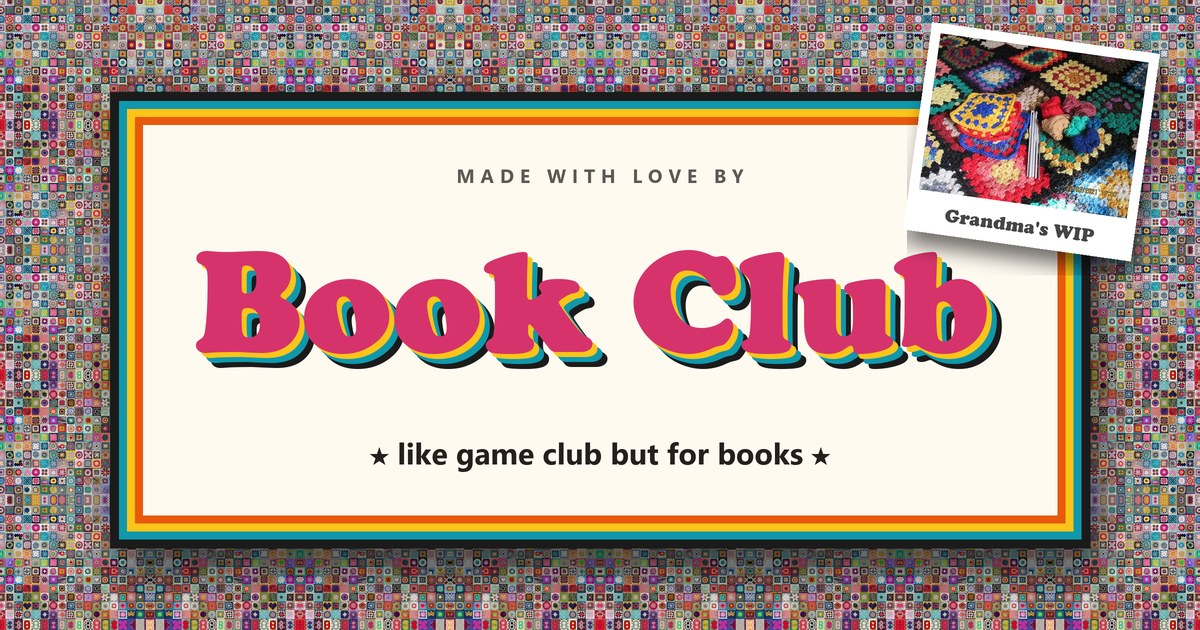
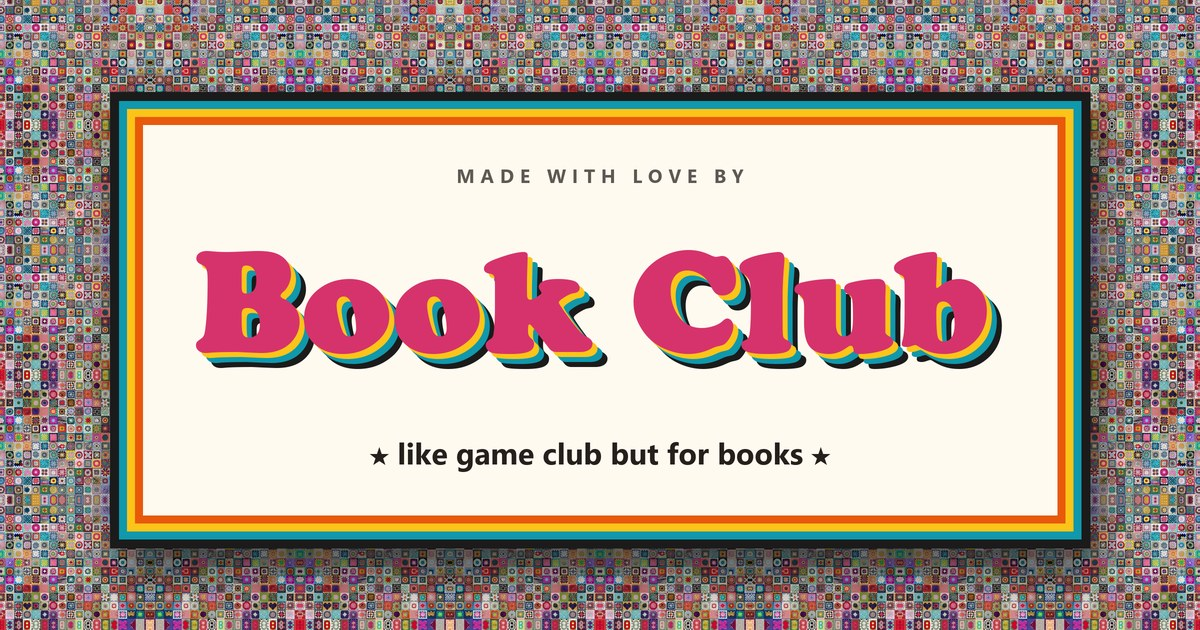
Take out the Grandma's WIP polaroid
Gone from the masthead and the link-preview image, and from the photo credits.

Changed region(s): [[0.74, 0.0302, 0.9867, 0.4524]]

diff --git a/css/style.css b/css/style.css
@@ -41,11 +41,6 @@ a{color:var(--accent)}
 
 /* ---------- masthead ---------- */
 .mast{text-align:center;padding:clamp(16px,3.4vw,30px) clamp(12px,4vw,34px) clamp(16px,3vw,26px)}
-.snap{position:absolute;right:-34px;top:-40px;z-index:3;margin:0;width:176px;background:#fff;padding:8px 8px 6px;transform:rotate(7deg);box-shadow:0 10px 18px rgba(0,0,0,.45)}
-.snap img{display:block;width:100%;height:auto}
-.snap figcaption{font:800 13px/1 var(--serif);text-align:center;margin-top:7px;color:#444}
-@media (max-width:900px){.snap{width:130px;right:-20px;top:-30px}}
-@media (max-width:760px){.snap{display:none}}
 .hello{margin:0;font:800 12px/1.2 var(--ui);letter-spacing:.3em;padding-left:.3em;text-transform:uppercase;color:color-mix(in srgb,var(--edge) 72%,var(--paper))}
 .logo{margin:6px 0 0;padding:0 .12em 12px 0;font:900 clamp(50px,10.5vw,124px)/1 var(--serif);letter-spacing:.005em;color:var(--accent);text-wrap:balance;overflow-wrap:anywhere;
   text-shadow:4px 4px 0 var(--r2),8px 8px 0 var(--r3),12px 12px 0 var(--edge)}

diff --git a/credits.html b/credits.html
@@ -30,7 +30,6 @@ CC0 and public domain.</p>
 <li><b>The good rug</b>: <a href="https://commons.wikimedia.org/wiki/File:%22Floral_and_Cloudband%22_Carpet_MET_wb-53.214c.jpeg">&quot;Floral and Cloudband&quot; Carpet MET wb-53.214c.jpeg</a> by unknown <span>(CC0)</span></li>
 <li><b>Button tin</b>: <a href="https://commons.wikimedia.org/wiki/File:Box_Full_of_Buttons_For_Sewing_(42958527870).jpg">Box Full of Buttons For Sewing (42958527870).jpg</a> by Dejan Krsmanovic <span>(CC BY 2.0)</span></li>
 <li><b>Cross-stitch</b>: <a href="https://commons.wikimedia.org/wiki/File:Cross_stitch.JPG">Cross stitch.JPG</a> by Dee.lite <span>(Public domain)</span></li>
-<li><b>Grandma&#x27;s WIP (the polaroid)</b>: <a href="https://commons.wikimedia.org/wiki/File:Crocheted_blanket.jpg">Crocheted blanket.jpg</a> by Sudzie <span>(CC BY-SA 4.0)</span></li>
 </ul>
 <p class="back"><a href="./">&larr; back to the club</a></p>
 </main></body></html>

diff --git a/index.html b/index.html
@@ -45,7 +45,6 @@ try {
 <body class="tab-shelf">
 <main class="page">
   <header class="panel mast">
-    <figure class="snap" aria-hidden="true"><img src="img/grandmas-wip.jpg" alt="" width="560" height="420"><figcaption>Grandma's WIP</figcaption></figure>
     <p class="hello">Made with love by</p>
     <h1 class="logo" id="club-name">Book Club</h1>
     <p class="tagline" id="tagline">★ like game club but for books ★</p>

diff --git a/scripts/make_share_images.py b/scripts/make_share_images.py
@@ -1,6 +1,6 @@
 """Make the link-preview image (og-image.jpg) and app icons in Book Club's granny-square look:
 the real granny-square afghan photo as wallpaper, a cream card crocheted round and round, the name in
-chunky '70s type with stacked yarn-colored shadows, and grandma's WIP polaroid (the site's default
+chunky '70s type with stacked yarn-colored shadows (the site's default
 look, see js/look.js). The icons are a granny square.
 Run: python scripts/make_wallpapers.py first, then python scripts/make_share_images.py
 (needs Pillow; uses Windows' Cooper Black + Segoe UI Bold)"""
@@ -62,19 +62,6 @@ def og():
     d.text((cx, 452 * K), tag, font=tf, fill=INK, anchor="mm")
     for x in (cx - tw / 2 - gap, cx + tw / 2 + gap):  # Segoe UI has no star, so they come from Segoe UI Symbol
         d.text((x, 454 * K), "\u2605", font=sf, fill=INK, anchor="mm")
-    # grandma's WIP polaroid, taped to the corner
-    ph = Image.open(IMG / "grandmas-wip.jpg").convert("RGBA")
-    pw = 210 * K
-    ph = ph.resize((pw, round(pw * ph.height / ph.width)), Image.LANCZOS)
-    pol = Image.new("RGBA", (pw + 20 * K, ph.height + 52 * K), (255, 255, 255, 255))
-    pol.paste(ph, (10 * K, 10 * K))
-    ImageDraw.Draw(pol).text((pol.width // 2, ph.height + 32 * K), "Grandma's WIP", font=ImageFont.truetype(COOPER, 19 * K), fill=(70, 70, 70), anchor="mm")
-    pol = pol.rotate(-8, resample=Image.BICUBIC, expand=True)
-    psh = Image.new("RGBA", pol.size, (0, 0, 0, 0))
-    psh.putalpha(pol.getchannel("A").point(lambda a: a * 0.55))
-    at = (box[2] - pol.width + 70 * K, box[1] - 70 * K)
-    out.alpha_composite(psh.filter(ImageFilter.GaussianBlur(9 * K)), (at[0] + 4 * K, at[1] + 14 * K))
-    out.alpha_composite(pol, at)
     out.convert("RGB").resize((1200, 630), Image.LANCZOS).save(IMG / "og-image.jpg", quality=88, optimize=True, progressive=True)
 
 

diff --git a/scripts/make_wallpapers.py b/scripts/make_wallpapers.py
@@ -27,8 +27,6 @@ for wid, name in WALLS.items():
     r, g, b = im.resize((1, 1), Image.LANCZOS).getpixel((0, 0))
     print(f"{wid:9} #{r:02x}{g:02x}{b:02x}  {im.size}  {(OUT / f'{wid}.jpg').stat().st_size // 1024} KB")
 
-# the polaroid in the masthead
-Image.open(SRC / "granny-hooks.jpg").convert("RGB").save(ROOT / "img" / "grandmas-wip.jpg", quality=84, optimize=True)
 
 # ---- credits.html: who took each photo (CC BY / CC BY-SA need this) ----
 import html, re
@@ -36,7 +34,7 @@ SOURCE = {  # what's on the site -> the Commons file it was made from (keys in m
     "Granny squares": "granny", "'70s afghan": "granny2", "Irish chain quilt": "quilt", "Doilies on velvet": "doilies",
     "Big red doily": "doily_red", "Candy dish": "candy", "Blue willow": "willow", "Rose china": "rosechina",
     "Rosebud stripe": "rosestripe", "Calico": "chintz", "Red toile": "toile2", "Chenille bedspread": "chenille",
-    "The good rug": "carpet", "Button tin": "buttons", "Cross-stitch": "xstitch2", "Grandma's WIP (the polaroid)": "granny3",
+    "The good rug": "carpet", "Button tin": "buttons", "Cross-stitch": "xstitch2",
 }
 md = (ROOT / "mockups" / "grandma" / "CREDITS.md").read_text(encoding="utf-8")
 src = {m[0]: m[1:] for m in re.findall(r"^- \*\*(\w+)\*\*: \[(.+?)\]\((.+?)\) by (.+) \((.+?)\)$", md, re.M)}

diff --git a/PLAN.md b/PLAN.md
@@ -52,7 +52,7 @@ their first Book Club sign-in (the palette and fonts are cozier than Game Club's
   Unknown names fall back to the defaults (rainbow / granny / rounds). A small script in
   `index.html` puts the last-seen look back before first paint.
 - Masthead: "Made with love by", the club name huge with stacked yarn-colored shadows, the tagline,
-  a "now reading" tag, and a "Grandma's WIP" polaroid in the corner (hidden on phones). The menu
+  and a "now reading" tag. The menu
   is its own row of granny-square buttons under it, so nothing ever covers it.
 - Ticker: BOOK FACTS typed on a strip of paper (~140 stupid-but-true facts in `facts`).
 - Shelf: books faced out on a striped crocheted runner; each vote is a bookmark ribbon
